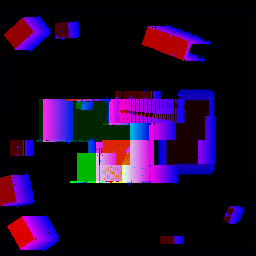
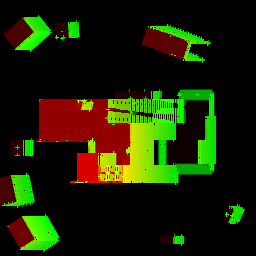
为啥计算出来这么多黑点

diff --git a/Assets/ShadowTest/Custom/GenerateMapHeightTex.cs b/Assets/ShadowTest/Custom/GenerateMapHeightTex.cs
@@ -24,9 +24,6 @@ namespace ShadowTest.Custom {
         public int resolutionY;
         [Header("保存路径(从'Assets/'开始)")]
         public string path;
-
-        [Header("高度的分割线(百分比),高度以下存到r通道，以上存到g通道"), Range(0, 1)]
-        public float highCuttingLine;
         
         [Header("固定影子(灯光)方向")]
         public bool fixedShadowDir;
@@ -73,8 +70,6 @@ namespace ShadowTest.Custom {
         private static readonly int ShaderHeightTexWidth = Shader.PropertyToID("_HeightTexWidth");
         private static readonly int ShaderHeightTexBottom = Shader.PropertyToID("_HeightTexBottom");
         private static readonly int ShaderHeightTexHigh = Shader.PropertyToID("_HeightTexHigh");
-        private static readonly int ShaderMaxHeight1 = Shader.PropertyToID("_MaxHeight1");
-        private static readonly int ShaderMaxHeight2 = Shader.PropertyToID("_MaxHeight2");
         private static readonly int ShaderMaxOffset = Shader.PropertyToID("_MaxOffset");
         private static readonly int ShadowDir = Shader.PropertyToID("_ShadowDir");
 
@@ -307,12 +302,8 @@ namespace ShadowTest.Custom {
             var stepY = 1.0f / resolutionY * width;
             var texture2D = new Texture2D(resolutionX, resolutionY);
 
-            var maxHeight1 = high * highCuttingLine;
-            var maxHeight2 = high - maxHeight1;
-
             var pixelCount = resolutionX * resolutionY;
-            var curHeightArray1 = new NativeArray<TriangleHeightInfo>(pixelCount, Allocator);
-            var curHeightArray2 = new NativeArray<TriangleHeightInfo>(pixelCount, Allocator);
+            var curHeightArray = new NativeArray<TriangleHeightInfo>(pixelCount, Allocator);
             var calculateHeightJob = new CalculateHeightJob
             {
                 TriangleInfoArray = usedTriangleInfoList.AsArray(),
@@ -322,23 +313,19 @@ namespace ShadowTest.Custom {
                 Left = mapBoundary.Left,
                 Bottom = convertMapBoundary.Bottom,
                 Back = mapBoundary.Back,
-                MaxHeight1 = maxHeight1,
-                CurHeightArray1 = curHeightArray1,
-                CurHeightArray2 = curHeightArray2,
+                CurHeightArray = curHeightArray,
                 ShadowMatrix = shadowMatrix
             };
             var calculateHeightHandle = calculateHeightJob.Schedule(pixelCount, 64);
             calculateHeightHandle.Complete();
             usedTriangleInfoList.Dispose();
 
-            var curOffsetHeightArray1 = new NativeArray<float>(pixelCount, Allocator);
-            var curOffsetHeightArray2 = new NativeArray<float>(pixelCount, Allocator);
+            var curOffsetHeightArray = new NativeArray<float>(pixelCount, Allocator);
             var maxOffset = 0f;
             if(needHeightOffset) {
                 var calculateOffsetHeightJob = new CalculateOffsetHeightJob
                 {
-                    CurHeightArray1 = curHeightArray1,
-                    CurHeightArray2 = curHeightArray2,
+                    CurHeightArray = curHeightArray,
                     ResolutionX = resolutionX,
                     ResolutionY = resolutionY,
                     CheckHeightOffsetLayer = checkHeightOffsetLayer,
@@ -349,18 +336,12 @@ namespace ShadowTest.Custom {
                     StepX = stepX,
                     StepY = stepY,
                     Bottom = convertMapBoundary.Bottom,
-                    CurOffsetHeightArray1 = curOffsetHeightArray1,
-                    CurOffsetHeightArray2 = curOffsetHeightArray2,
+                    CurOffsetHeightArray = curOffsetHeightArray,
                 };
                 var calculateOffsetHeightHandle = calculateOffsetHeightJob.Schedule(pixelCount, 64);
                 calculateOffsetHeightHandle.Complete();
 
-                foreach(var offset in curOffsetHeightArray1) {
-                    if(maxOffset < offset) {
-                        maxOffset = offset;
-                    }
-                }
-                foreach(var offset in curOffsetHeightArray2) {
+                foreach(var offset in curOffsetHeightArray) {
                     if(maxOffset < offset) {
                         maxOffset = offset;
                     }
@@ -371,16 +352,13 @@ namespace ShadowTest.Custom {
             for(var y = 0; y < resolutionY; y++) {
                 for(var x = 0; x < resolutionX; x++) {
                     texture2D.SetPixel(x, y,
-                        new Color( curHeightArray1[pixelIndex].Height / maxHeight1, curHeightArray2[pixelIndex].Height / maxHeight2, 
-                            (curOffsetHeightArray2[pixelIndex] > curOffsetHeightArray1[pixelIndex] ? curOffsetHeightArray2[pixelIndex] : curOffsetHeightArray1[pixelIndex]) / maxOffset));
+                        new Color( curHeightArray[pixelIndex].Height / high, curOffsetHeightArray[pixelIndex] / maxOffset, 0f));
                     pixelIndex++;
                 }
             }
 
-            curHeightArray1.Dispose();
-            curHeightArray2.Dispose();
-            curOffsetHeightArray1.Dispose();
-            curOffsetHeightArray2.Dispose();
+            curHeightArray.Dispose();
+            curOffsetHeightArray.Dispose();
 
             var costTime = DateTime.Now.Subtract(curTime).TotalMilliseconds / 1000d;
 
@@ -420,8 +398,6 @@ namespace ShadowTest.Custom {
             mapMaterial.SetFloat(ShaderHeightTexWidth, width);
             mapMaterial.SetFloat(ShaderHeightTexBottom, convertMapBoundary.Bottom);
             mapMaterial.SetFloat(ShaderHeightTexHigh, high);
-            mapMaterial.SetFloat(ShaderMaxHeight1, maxHeight1);
-            mapMaterial.SetFloat(ShaderMaxHeight2, maxHeight2);
             mapMaterial.SetFloat(ShaderMaxOffset, maxOffset);
             if(fixedShadowDir) {
                 mapMaterial.SetVector(ShadowDir, (Vector3)shadowDir);
@@ -434,7 +410,7 @@ namespace ShadowTest.Custom {
             AssetDatabase.SaveAssets();
             AssetDatabase.Refresh();
 
-            Debug.Log($"left:{mapBoundary.Left}_length:{length}_back:{mapBoundary.Back}_width:{width}_bottom:{mapBoundary.Bottom}_high:{high}_baseHeight1:{maxHeight1}_baseHeight2:{maxHeight2}_maxOffset:{maxOffset}_costTime:{costTime}");
+            Debug.Log($"left:{mapBoundary.Left}_length:{length}_back:{mapBoundary.Back}_width:{width}_bottom:{mapBoundary.Bottom}_high:{high}_maxOffset:{maxOffset}_costTime:{costTime}");
         }
 
         /// <summary>
@@ -525,12 +501,9 @@ namespace ShadowTest.Custom {
             [ReadOnly] public float Back;
             [ReadOnly] public float Bottom;
             
-            [ReadOnly] public float MaxHeight1;
-            
             [ReadOnly] public float3x3 ShadowMatrix;
 
-            public NativeArray<TriangleHeightInfo> CurHeightArray1;
-            public NativeArray<TriangleHeightInfo> CurHeightArray2;
+            public NativeArray<TriangleHeightInfo> CurHeightArray;
 
             // Each Execute call processes only an individual index.
             public void Execute(int index) {
@@ -539,12 +512,7 @@ namespace ShadowTest.Custom {
                 var curPosX = Left + (0.5f + xIndex) * StepX;
                 var curPosY = Back + (0.5f + yIndex) * StepY;
 
-                var curHeightArray1 = new TriangleHeightInfo
-                {
-                    Height = 0f,
-                    Offset = false
-                };
-                var curHeightArray2 = new TriangleHeightInfo
+                var curHeightArray = new TriangleHeightInfo
                 {
                     Height = 0f,
                     Offset = false
@@ -586,26 +554,15 @@ namespace ShadowTest.Custom {
                     var tempH = -((curConvertPoint.x - tempPoint.x) * triangleInfo.Normal.x + (curConvertPoint.z - tempPoint.z) * triangleInfo.Normal.z) /
                         triangleInfo.Normal.y + tempPoint.y - Bottom;
 
-                    if(tempH < MaxHeight1) {
-                        if(curHeightArray1.Height < tempH) {
-                            curHeightArray1.Height = tempH;
-                        }
-                        if(!curHeightArray1.Offset && triangleInfo.Type == TriangleType.Offset) {
-                            curHeightArray1.Offset = true;
-                        }
-                    } else {
-                        tempH -= MaxHeight1;
-                        if(curHeightArray2.Height < tempH) {
-                            curHeightArray2.Height = tempH;
-                        }
-                        if(!curHeightArray2.Offset && triangleInfo.Type == TriangleType.Offset) {
-                            curHeightArray2.Offset = true;
-                        }
+                    if(curHeightArray.Height < tempH) {
+                        curHeightArray.Height = tempH;
+                    }
+                    if(!curHeightArray.Offset && triangleInfo.Type == TriangleType.Offset) {
+                        curHeightArray.Offset = true;
                     }
                 }
 
-                CurHeightArray1[index] = curHeightArray1;
-                CurHeightArray2[index] = curHeightArray2;
+                CurHeightArray[index] = curHeightArray;
             }
         }
 
@@ -614,8 +571,7 @@ namespace ShadowTest.Custom {
         /// </summary>
         [BurstCompile]
         private struct CalculateOffsetHeightJob : IJobParallelFor {
-            [ReadOnly] public NativeArray<TriangleHeightInfo> CurHeightArray1;
-            [ReadOnly] public NativeArray<TriangleHeightInfo> CurHeightArray2;
+            [ReadOnly] public NativeArray<TriangleHeightInfo> CurHeightArray;
 
             [ReadOnly] public int ResolutionX;
             [ReadOnly] public int ResolutionY;
@@ -631,16 +587,14 @@ namespace ShadowTest.Custom {
 
             [ReadOnly] public float Bottom;
 
-            public NativeArray<float> CurOffsetHeightArray1;
-            public NativeArray<float> CurOffsetHeightArray2;
+            public NativeArray<float> CurOffsetHeightArray;
 
             // Each Execute call processes only an individual index.
             public void Execute(int index) {
                 var xIndex = index % ResolutionX;
                 var yIndex = index / ResolutionX;
 
-                CurOffsetHeightArray1[index] = CalculateCurOffset(index, xIndex, yIndex, CurHeightArray1, StepX, StepY, Bottom, ResolutionX, ResolutionY, CheckLength, CheckHeightOffsetLayer, HeightOffsetSinMin, HeightOffsetSinMax, HeightOffset);
-                CurOffsetHeightArray2[index] = CalculateCurOffset(index, xIndex, yIndex, CurHeightArray2, StepX, StepY, Bottom, ResolutionX, ResolutionY, CheckLength, CheckHeightOffsetLayer, HeightOffsetSinMin, HeightOffsetSinMax, HeightOffset);
+                CurOffsetHeightArray[index] = CalculateCurOffset(index, xIndex, yIndex, CurHeightArray, StepX, StepY, Bottom, ResolutionX, ResolutionY, CheckLength, CheckHeightOffsetLayer, HeightOffsetSinMin, HeightOffsetSinMax, HeightOffset);
             }
         }
 
